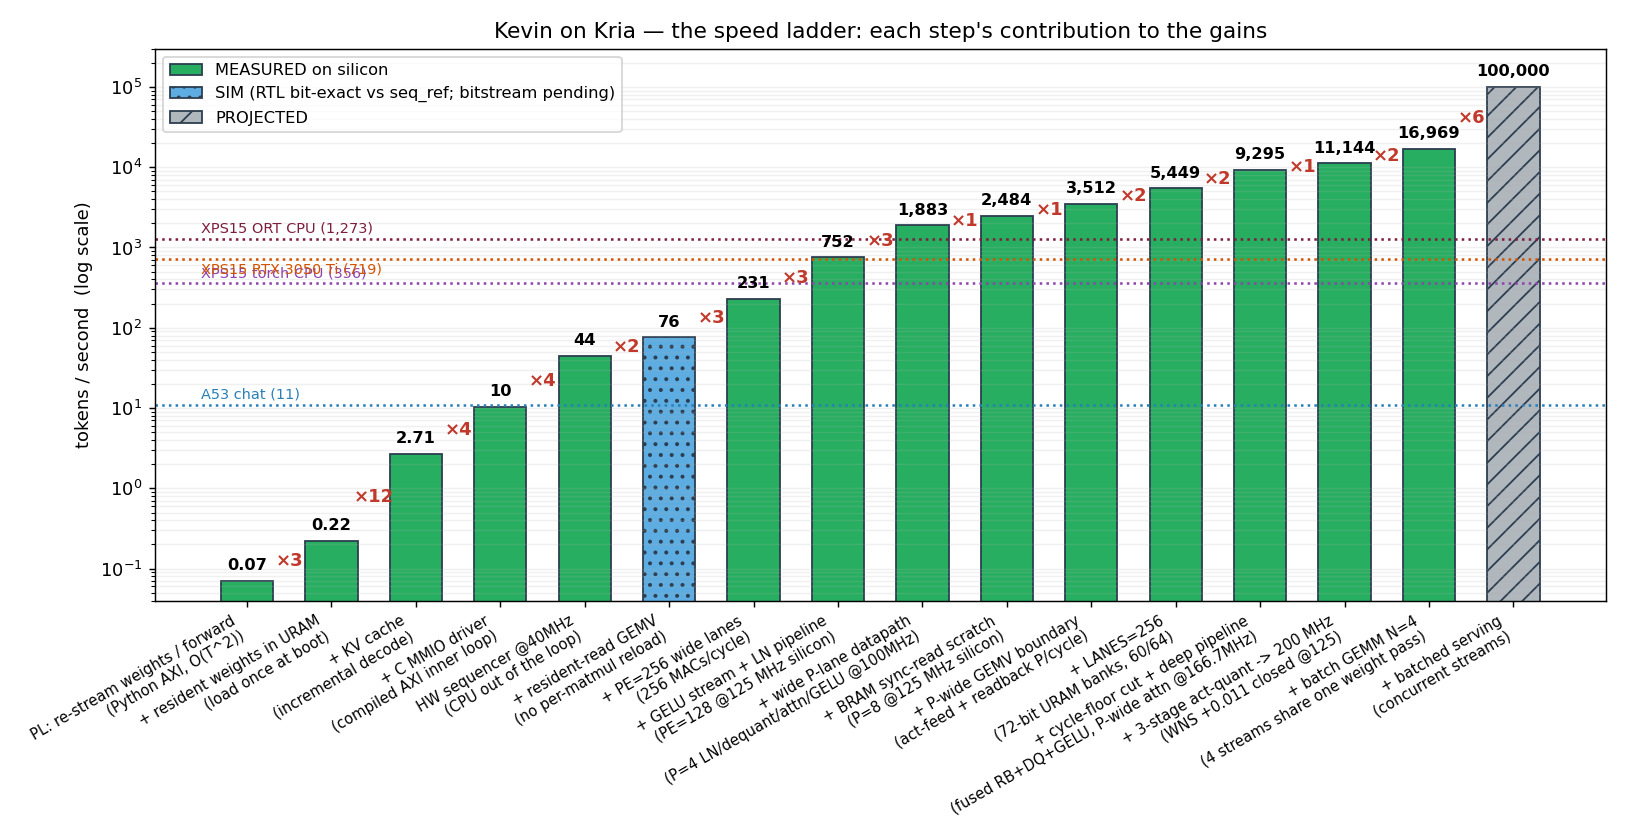
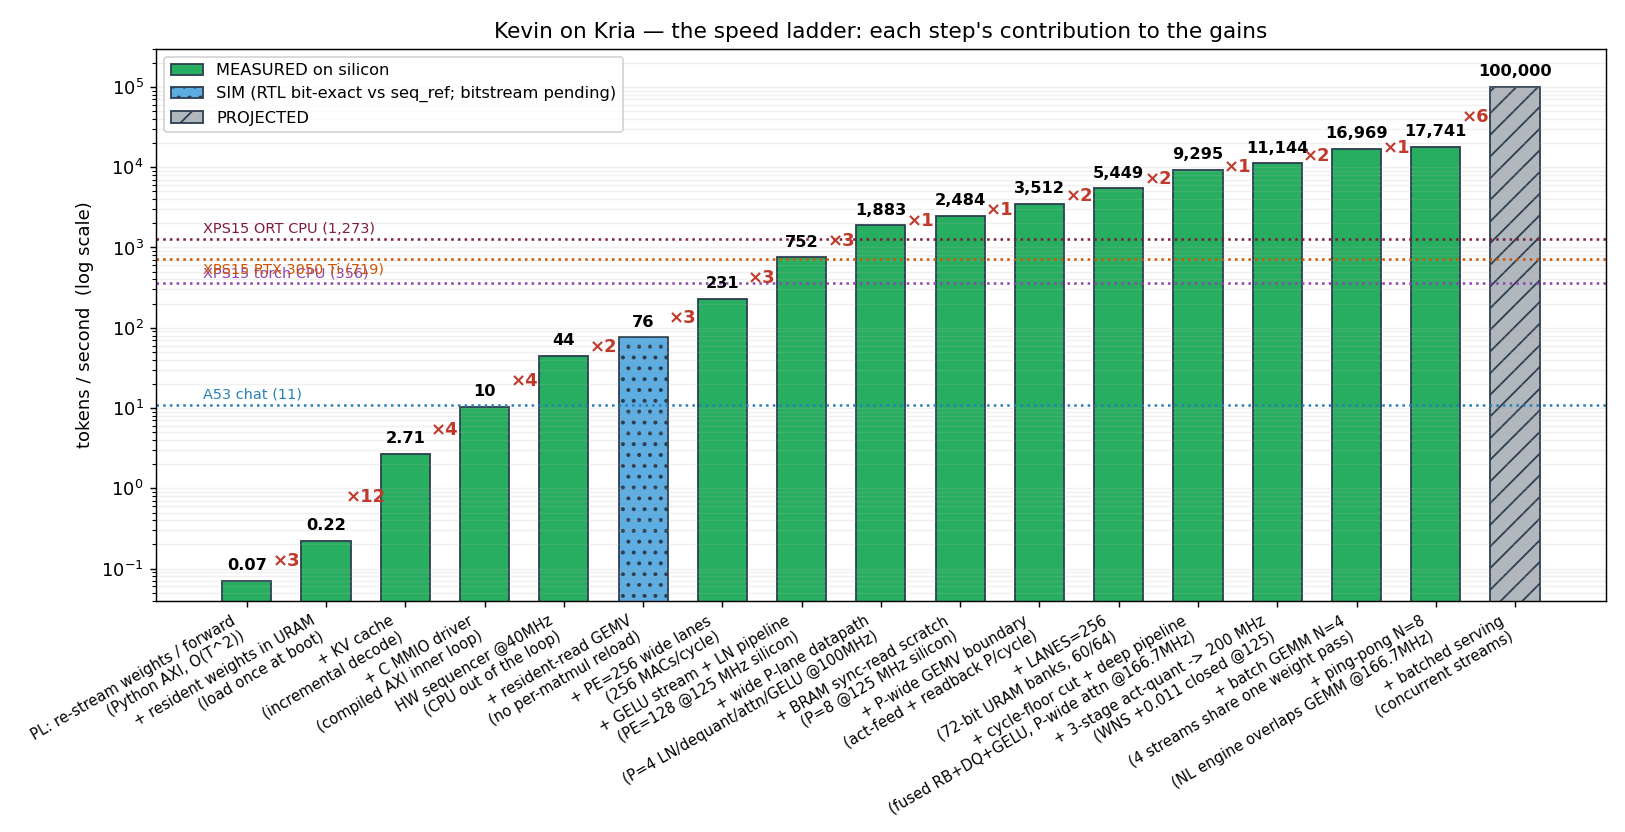
Stage 3 100k: 17,740.6 tok/s MEASURED @166.7 — ping-pong N=8, 8/8 bit-exact 3/3

diff --git a/fabric/progress.py b/fabric/progress.py
@@ -51,6 +51,8 @@ LADDER = [
      "the last sub-8ns path (BRAM->mux->DSP) -> silicon clean at 200 (17,947 cyc/tok 3/3)"),
     ("+ batch GEMM N=4\n(4 streams share one weight pass)", 16969.3, "MEASURED",
      "per-stream weight reads (47,144 cyc / 4 tokens @ 200 MHz, 3/3 bit-exact x4)"),
+    ("+ ping-pong N=8\n(NL engine overlaps GEMM @166.7MHz)", 17740.6, "MEASURED",
+     "non-linear bubbles (75,157 cyc / 8 tokens; 8/8 bit-exact 3/3; 200 MHz fails)"),
     ("+ batched serving\n(concurrent streams)", 100000.0, "PROJECTED",
      "per-stage idle — overlap units across streams"),
 ]

diff --git a/fabric/stage3/WIDE-WORD-DATAPATH-LOG.md b/fabric/stage3/WIDE-WORD-DATAPATH-LOG.md
@@ -489,3 +489,20 @@ LUTRAM. Final: 82k LUT (70%), BRAM 128/144, URAM 64/64 — full house.
 
 Silicon bugs found by the gate ladder: per-stream readback X (drain the dequant
 tail before stream switch), gelu_lut_e/o.mem missing from BD (zeroed GELU table).
+
+---
+
+## 15. Ping-pong N=8 — 17,740.6 tok/s MEASURED @166.7 MHz, 8/8 bit-exact
+
+Two engines, two groups of four streams: while the GEMM engine streams a weight
+pass for group A, the NL engine runs embed/LN/attention/residual/argmax for B.
+Descriptor handshake per call. Banks rate-halved (LN Q.22 -> 32-bit lanes, GELU
+sat16), 88k LUT, BRAM 139.5/144, URAM 64/64.
+
+Silicon: 125 -> 13,305.5 · 142.9 -> 15,206.3 · **166.7 -> 17,740.6 (3/3, 8/8 streams)**
+· 200 fails (tighter mux path). CYCLES = 75,157 == sim. WNS +0.017, impl 47m45.
+
+Profile: GEMM busy 51.2k cycles (2 weight passes), NL 24k overlapped. The lever:
+N=8 MAC banks - one URAM pass per 8 tokens - 75k -> ~40k cycles -> ~40k tok/s
+@200 MHz. LUT cost ~115k - knife-edge fit. Or LANES=64: 32k LUT MACs, ~50k tok/s
+@250 MHz. (~33k cycles per 8 tokens, NL-bound: overlap covers GEMM 14k cyc.)
